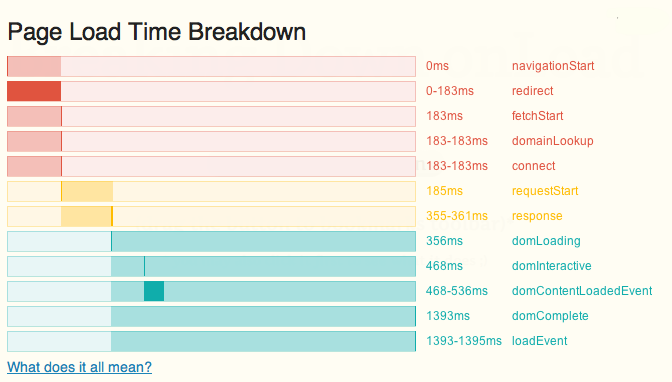
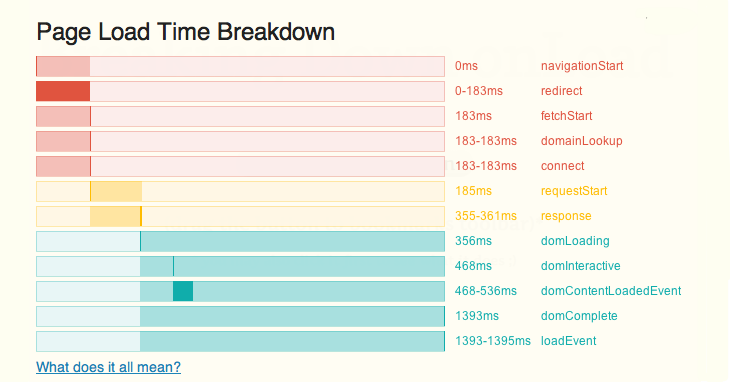
more n' more fixes

diff --git a/index.html b/index.html
@@ -8,7 +8,7 @@
   <body>
     <div id="main">
       <h1>Breaking Down onLoad</h1>
-      <div id="bm">
+      <div id="bm" class="fig">
       <a id="bookmarklet" href="javascript:(function(){(function(){function%20u(){if(!window.performance){return}var%20b=window.performance,d=b.timing,e={},f=d.navigationStart||0,g=k(d),h=[];duration=0;g.forEach(function(a){if(d[a]%26%26d[a]%3E0){duration=d[a]-f;h.push([a,duration]);if(duration%3Ec){c=duration}}});h.sort(function(b,c){return%20b[1]!==c[1]%3Fb[1]-c[1]:a.indexOf(b[0])-a.indexOf(c[0])});h.forEach(function(a){e[a[0]]=a[1]});return%20h}function%20t(a,b,c,h){var%20j,k,m,n,o,p=h.color,q=h.sectionData[0],r=h.sectionData[1],s=h.label,t=b.getContext(%222d%22);if(a===%22block%22){j=h.eventData[0];k=h.eventData[1];n=j+%22-%22+k}else{j=h.eventData[0];n=j}n+=%22ms%22;o=t.measureText(n);if(o.width%3Ee){e=o.width+10;g=e+f;i=l(b)}return%20function(b){if(a===%22block%22){m=Math.round((k-j)*i);m=m===0%3F1:m}else{m=1}b.strokeStyle=%22rgba(%22+p[0]+%22,%22+p[1]+%22,%22+p[2]+%22,.3)%22;b.lineWidth=1;b.fillStyle=%22rgba(255,255,255,.99)%22;b.fillRect(0,0,c-g,d);b.fillStyle=%22rgba(%22+p[0]+%22,%22+p[1]+%22,%22+p[2]+%22,.1)%22;b.fillRect(0,0,c-g,d);b.strokeRect(.5,.5,Math.round(c-g-1),Math.round(d));b.shadowColor=%22white%22;b.fillStyle=%22rgba(%22+p[0]+%22,%22+p[1]+%22,%22+p[2]+%22,.3)%22;b.fillRect(Math.round(i*q),0,Math.round(i*(r-q)),d);b.fillStyle=%22rgb(%22+p[0]+%22,%22+p[1]+%22,%22+p[2]+%22)%22;b.fillRect(Math.round(i*j),0,m,d);b.fillText(n,c-g+10,2*d/3);b.fillText(s,c-g+e+10,2*d/3)}}function%20s(a,b,c,d,e,f){var%20g={color:f.color,sectionData:[f.barStart,f.barEnd],eventData:e.map(function(a){return%20b[a]%26%26typeof%20b[a].time!==%22undefined%22%3Fb[a].time:a}),label:f.label};return%20t(d,a,c,g)}function%20r(c){var%20d={},e,f,g,h,i,j,k,l;c.forEach(function(a){d[a[0]]={time:a[1]}});for(g=0,i=b.length;g%3Ci;g++){e=b[g].start;f=b[g].end;k=a.slice(e,f+1);l=k.filter(function(a){return%20d.hasOwnProperty(a)});l.sort(function(a,b){return%20d[a].time-d[b].time});e=l[0];f=l[l.length-1];for(h=0,j=l.length;h%3Cj;h++){var%20m=l[h];if(d[m]){d[m].color=b[g].color;d[m].barStart=d[e].time;d[m].barEnd=d[f].time}}}return%20d}function%20q(b,c){var%20e,f,g,j,k,m,n=[],p=[],q,t=%2212px%20Arial%22,u,v,w=document.createElement(%22div%22),x=o(),y=r(c);u=document.createElement(%22canvas%22);u.width=parseInt(window.getComputedStyle(b).width,10)-20;v=u.getContext(%222d%22);v.font=t;i=l(u);q=s.bind(this,u,y,u.width);for(var%20z%20in%20y){j=y[z];f=z.indexOf(%22Start%22);g=-1;if(f%3E-1){k=z.substr(0,f);g=a.indexOf(k+%22End%22)}if(f%3E-1%26%26g%3E-1){j.label=k;p.push(q(%22block%22,[k+%22Start%22,k+%22End%22,k],j));n.push(k+%22End%22)}else%20if(n.indexOf(z)%3C0){j.label=z;p.push(q(%22point%22,[z],j))}}u.height=h*d*p.length;v.font=t;p.forEach(function(a){a(v);v.translate(0,Math.round(d*h))});w.appendChild(u);w.appendChild(x);return%20w}function%20p(){var%20a=document.createElement(%22p%22);a.innerHTML=%22Navigation%20Timing%20API%20is%20not%20supported%20by%20your%20browser%22;return%20a}function%20o(){var%20a=document.createElement(%22a%22);a.target=%22_blank%22;a.href=%22http://kaaes.github.com/timing/info.html%22;a.innerHTML=%22What%20does%20it%20all%20mean%3F%22;a.style.cssText=%22color:%231D85B8%22;return%20a}function%20n(a){var%20b=document.createElement(%22div%22),c=document.createElement(%22h1%22),d=document.createElement(%22button%22);c.innerHTML=%22Page%20Load%20Time%20Breakdown%22;c.style.cssText=%22font-family:Helvetica,Calibri,Arial,sans-serif;text-shadow:none;display:inline-block;color:%23222;font-weight:normal;font-size:24px;margin:10px%200%22;d.innerHTML=%22close%22;d.style.cssText=%22font-family:Helvetica,Calibri,Arial,sans-serif;text-shadow:none;float:right;border:none;background:%23333;color:%23fff;border-radius:10px;padding:3px%2010px;font-size:12px;%22;d.addEventListener(%22click%22,function(b){a.parentNode.removeChild(a)});b.appendChild(c);b.appendChild(d);return%20b}function%20m(){var%20a=document.createElement(%22div%22);document.body.appendChild(a);a.style.cssText=%22font-size:14px;font-family:Helvetica,Calibri,Arial,sans-serif;text-shadow:none;text-align:left;width:95%25;position:fixed;z-index:999;margin:0%20auto;top:20px;left:20px;background:rgba(255,253,242,.95);padding:10px;box-shadow:0%200%2010px%205px%20rgba(0,0,0,.5),0%200%200%2010px%20rgba(0,0,0,.5);%20border-radius:1px%22;return%20a}function%20l(a){return(a.width-g)/c}function%20k(a){var%20b=Object.keys(a);return%20b.length%3Fb:Object.keys(Object.getPrototypeOf(a))}var%20a=[%22navigationStart%22,%22redirectStart%22,%22redirectStart%22,%22redirectEnd%22,%22fetchStart%22,%22domainLookupStart%22,%22domainLookupEnd%22,%22connectStart%22,%22secureConnectionStart%22,%22connectEnd%22,%22requestStart%22,%22responseStart%22,%22responseEnd%22,%22unloadEventStart%22,%22unloadEventEnd%22,%22domLoading%22,%22domInteractive%22,%22domContentLoadedEventStart%22,%22domContentLoadedEventEnd%22,%22domContentLoaded%22,%22domComplete%22,%22loadEventStart%22,%22loadEventEnd%22];var%20b=[{name:%22network%22,color:[224,84,63],start:a.indexOf(%22navigationStart%22),end:a.indexOf(%22connectEnd%22)},{name:%22server%22,color:[255,188,0],start:a.indexOf(%22requestStart%22),end:a.indexOf(%22responseEnd%22)},{name:%22browser%22,color:[16,173,171],start:a.indexOf(%22unloadEventStart%22),end:a.indexOf(%22loadEventEnd%22)}];var%20c=0,d=20,e=50,f=150,g=e+f,h=1.25,i=1,j={};(function%20v(){var%20a=m(),b=u();a.appendChild(n(a));a.appendChild(b%3Fq(a,b):p())})()})()})();">Loadtime Breakdown</a>
       
       <p>
@@ -16,11 +16,10 @@
       </p>
       <p class="footnote">you may also click it first here to see what it does</p>
       </div>
- 
       <p>This script uses <a href="https://dvcs.w3.org/hg/webperf/raw-file/tip/specs/NavigationTiming/Overview.html">Navigation Timing object</a> to present timing of different phases of loading the page by a browser.</p>
       <p>It measures everything from triggering the action (hitting enter on url bar, refreshing page or clicking a link/button) to the moment when site is fully loaded. Adding it to your bookmarks allows you to analyze performance of every request you'd like to check out.</p>
-      <p id="example"><img src="chart.png" alt="Sample chart generated by bookmarklet" /></p>
-      <p>So far Navigation Timing API works in Firefox 7+, Chrome (buggy*) and IE 9+</p>
+      <p class="fig"><img id="chart" src="chart.png" alt="Sample chart generated by bookmarklet" /></p>
+      <p>So far Navigation Timing API works in Firefox 7+, Chrome (as for 15, it's buggy*) and IE 9+</p>
       <p>* &lt;tech blah&gt;According to <a href="https://dvcs.w3.org/hg/webperf/raw-file/tip/specs/NavigationTiming/Overview.html#sec-window.performance-attribute">W3C spec</a> <code>window.performance</code> should be implemented as <a href="http://www.w3.org/TR/WebIDL/#Replaceable">WebIDL [Replaceable] attribute</a>.&lt;/tech blah&gt;</p>
       <p>
       In human language it means that its properties are in fact not its own but its prototype. 
@@ -28,25 +27,24 @@
       using <code>Object</code> methods will not have the result you might expect:</p>
       <pre>
 performance.timing
-// connectEnd: 1321394207437
-// connectStart: 1321394207437
-// domComplete: 1321394207768
-// ...
-// redirectEnd: 0
-// redirectStart: 0
-// ...
+  // connectEnd: 1321394207437
+  // connectStart: 1321394207437
+  // domComplete: 1321394207768
+  // ...
+  // redirectEnd: 0
+  // redirectStart: 0
+  // ...
 
 performance.hasOwnProperty("timing");
-// false
+  // should be false but true in Chrome
 Object.getPrototypeOf(performance).hasOwnProperty("timing");
-// true
+  // should be true but false in Chrome
 
 Object.keys(performance);
-// []
+  // should be [] but is ["memory", "timing", "navigation"] in Chrome
 Object.keys(Object.getPrototypeOf(performance));
-// ["timing", "navigation"]
+  // should be ["timing", "navigation"] but is [] in Chrome
 </pre>
-<p>In Chrome however <code>performance</code> is treated like a 'normal' object, so properties are its own.</p>
       <p>More resources:</p>
       <ul>
         <li><a href="http://www.html5rocks.com/en/tutorials/webperformance/basics/">HTML5 Rocks - Measuring Page Load Speed with Navigation Timing</a></li>

diff --git a/style.css b/style.css
@@ -33,11 +33,11 @@ pre {
 	box-shadow: 0 0 0 1px rgba(243,218,178,.3), 0 0 0 3px rgba(0,0,0,.8), 0 0 1px 4px rgba(255,255,255,.2), 0 0 1px 5px rgba(0,0,0,.2);
 }
 
-dl, #bm, #example {
+dl, .fig {
 	background: rgba(255,255,255,.5);
 	box-shadow: 0 0 1px rgba(0,0,0,.2);
 	padding: 1em;
-	margin: 1em;
+	margin: 1em 0;
 }
 
 dd {
@@ -63,16 +63,17 @@ dd {
 .footnote {
 	font-size: .7em;
 }
-#bm, #example {
+.fig {
 	text-align: center;
 }
 #bm p {
 	margin: 1em 0;
 	line-height: 1.1em;
 }
-#example img {
+#chart {
 	display: block;
-	padding: .5em 1.5em;
+	margin: 0 auto;
 	background:rgba(255,253,242,.95);
 	box-shadow: 0 0 1px rgba(0,0,0,.1);
+	max-width: 100%;
 }
